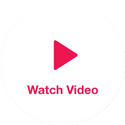
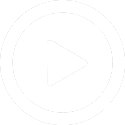
e2a

diff --git a/app/webroot/sass/style.scss b/app/webroot/sass/style.scss
@@ -42,7 +42,7 @@ section { float:left; width:100%;}
 
 
 .container {
-  max-width: 1200px !important;
+  max-width: 1250px !important;
 }
 
 header {
@@ -58,7 +58,7 @@ header {
   }
   .nav-item {
     .nav-link {
-      font-size: 16px;
+      font-size: 18px;
       font-weight: 700;
       color: #575757;
       text-transform: uppercase;
@@ -213,9 +213,9 @@ filter: progid:DXImageTransform.Microsoft.gradient( startColorstr='#cc0139', end
 
 .design-change { padding:80px 0; text-align:center; color:#fff;
 background: #1a81c4; /* Old browsers */
-background: -moz-linear-gradient(top, #1a81c4 0%, #0bcdf8 3%, #ffffff 100%); /* FF3.6-15 */
-background: -webkit-linear-gradient(top, #1a81c4 0%,#0bcdf8 3%,#ffffff 100%); /* Chrome10-25,Safari5.1-6 */
-background: linear-gradient(to bottom, #1a81c4 0%,#0bcdf8 3%,#ffffff 100%); /* W3C, IE10+, FF16+, Chrome26+, Opera12+, Safari7+ */
+background: -moz-linear-gradient(top, #1a81c4 0%, #22bfe2 44%, #ffffff 100%); /* FF3.6-15 */
+background: -webkit-linear-gradient(top, #1a81c4 0%,#22bfe2 44%,#ffffff 100%); /* Chrome10-25,Safari5.1-6 */
+background: linear-gradient(to bottom, #1a81c4 0%, #22bfe2 44%, #ffffff 100%); /* W3C, IE10+, FF16+, Chrome26+, Opera12+, Safari7+ */
 filter: progid:DXImageTransform.Microsoft.gradient( startColorstr='#1a81c4', endColorstr='#ffffff',GradientType=0 ); /* IE6-9 */	
 }
 .design-change {
@@ -324,7 +324,7 @@ filter: progid:DXImageTransform.Microsoft.gradient( startColorstr='#1a81c4', end
     color: #333;
   }
   p {
-    font-size: 15px !important;
+    font-size: 18px !important;
     font-weight: 100;
     line-height: 25px !important;
   }
@@ -338,13 +338,13 @@ filter: progid:DXImageTransform.Microsoft.gradient( startColorstr='#1a81c4', end
 
 .imagine-block {
   h4, h5 {
-    color: #F8DC00;
+    color: #b7a40e;
   }
 }
 
 .do-block {
   h4, h5 {
-    color: #9ECD51;
+    color: #6ca213;
   }
 }
 
@@ -373,7 +373,7 @@ filter: progid:DXImageTransform.Microsoft.gradient( startColorstr='#1a81c4', end
 
 .get-started { padding:80px 0; text-align:center;
 /* Permalink - use to edit and share this gradient: http://colorzilla.com/gradient-editor/#8ccc1e+0,c0e825+35,b3ef32+61,a1db42+100 */
-background: #8ccc1e; /* Old browsers */
+background: #679020; /* Old browsers */
 /*background: -moz-linear-gradient(top, #8ccc1e 0%, #c0e825 55%, #b3ef32 61%, #a1db42 100%);
 background: -webkit-linear-gradient(top, #8ccc1e 0%,#c0e825 75%,#b3ef32 61%,#a1db42 100%); 
 background: linear-gradient(to bottom, #8ccc1e 0%,#c0e825 75%,#b3ef32 61%,#a1db42 100%); */
@@ -381,7 +381,7 @@ filter: progid:DXImageTransform.Microsoft.gradient( startColorstr='#8ccc1e', end
 .get-started-head {
   float: left;
   width: 100%;
-  margin: 0 0 60px 0;
+  margin: 0 0 20px 0;
   h2 {
     float: left;
     width: 100%;
@@ -395,7 +395,7 @@ filter: progid:DXImageTransform.Microsoft.gradient( startColorstr='#8ccc1e', end
     width: 100%;
     font-size: 21px;
     font-weight: 400;
-    line-height: 40px;
+    line-height: 35px;
     color: #fff;
     padding: 0 5%;
     &.left {
@@ -419,14 +419,15 @@ filter: progid:DXImageTransform.Microsoft.gradient( startColorstr='#8ccc1e', end
     position: relative;
     float: left; 
     color: #FFF;
-    &:first-child {
-      margin-right: 80px;
+    margin-right: 40px;
+    img {
+      padding-bottom: 10px;
     }
     .watch-video-btn {
       img {
         width: 100px;
         height: 100px;
-        margin-top: -20px;
+        margin-top: -30px;
       }
     }
   }
@@ -1343,7 +1344,7 @@ filter: progid:DXImageTransform.Microsoft.gradient( startColorstr='#cc0139', end
     height: 25px;
   }
   &.inside {
-    height: 350px;
+    height: 270px;
   }
   &.just-title {
     height: 200px;
@@ -1429,7 +1430,7 @@ filter: progid:DXImageTransform.Microsoft.gradient( startColorstr='#cc0139', end
     font-size: 21px;
     font-weight: 400;
     color: #575757;
-    line-height: 40px;
+    line-height: 30px;
     margin: 0 0 30px 0;
     &.big {
       font-size: 25px;
@@ -1562,12 +1563,12 @@ filter: progid:DXImageTransform.Microsoft.gradient( startColorstr='#cc0139', end
     font-size: 21px;
     font-weight: 400;
     color: #fff;
-    margin: 0 0 30px 0;
+    margin: 0 0 50px 0;
     padding: 0 10%;
+    line-height: 30px;
   }
   a {
-    margin: auto;
-    display: table;
+    margin-left: 25px;
     font-size: 18px;
     font-weight: 700;
     padding: 12px 40px;
@@ -1654,14 +1655,14 @@ filter: progid:DXImageTransform.Microsoft.gradient( startColorstr='#cc0139', end
     width: 100%;
     font-size: 14px;
     font-weight: 400;
-    color: #ccc;
+    color: #666;
   }
   span {
     float: left;
     width: 100%;
     font-size: 14px;
     font-weight: 400;
-    color: #0BCDF8;
+    color: #666;
   }
 }
 

diff --git a/app/webroot/css/style.css b/app/webroot/css/style.css
@@ -87,7 +87,7 @@ section {
   width: 100%; }
 
 .container {
-  max-width: 1200px !important; }
+  max-width: 1250px !important; }
 
 header {
   float: left;
@@ -99,7 +99,7 @@ header {
   .navbar .navbar-brand {
     width: 160px; }
   .navbar .nav-item .nav-link {
-    font-size: 16px;
+    font-size: 18px;
     font-weight: 700;
     color: #575757;
     text-transform: uppercase;
@@ -240,11 +240,11 @@ header {
   color: #fff;
   background: #1a81c4;
   /* Old browsers */
-  background: -moz-linear-gradient(top, #1a81c4 0%, #0bcdf8 3%, #ffffff 100%);
+  background: -moz-linear-gradient(top, #1a81c4 0%, #22bfe2 44%, #ffffff 100%);
   /* FF3.6-15 */
-  background: -webkit-linear-gradient(top, #1a81c4 0%, #0bcdf8 3%, #ffffff 100%);
+  background: -webkit-linear-gradient(top, #1a81c4 0%, #22bfe2 44%, #ffffff 100%);
   /* Chrome10-25,Safari5.1-6 */
-  background: linear-gradient(to bottom, #1a81c4 0%, #0bcdf8 3%, #ffffff 100%);
+  background: linear-gradient(to bottom, #1a81c4 0%, #22bfe2 44%, #ffffff 100%);
   /* W3C, IE10+, FF16+, Chrome26+, Opera12+, Safari7+ */
   filter: progid:DXImageTransform.Microsoft.gradient( startColorstr='#1a81c4', endColorstr='#ffffff',GradientType=0 );
   /* IE6-9 */ }
@@ -337,7 +337,7 @@ header {
     font-weight: 400;
     color: #333; }
   .apply-block p {
-    font-size: 15px !important;
+    font-size: 18px !important;
     font-weight: 100;
     line-height: 25px !important; }
 
@@ -345,10 +345,10 @@ header {
   color: #EF3934; }
 
 .imagine-block h4, .imagine-block h5 {
-  color: #F8DC00; }
+  color: #b7a40e; }
 
 .do-block h4, .do-block h5 {
-  color: #9ECD51; }
+  color: #6ca213; }
 
 .share-block h4, .share-block h5 {
   color: #3A95D2; }
@@ -371,7 +371,7 @@ header {
   padding: 80px 0;
   text-align: center;
   /* Permalink - use to edit and share this gradient: http://colorzilla.com/gradient-editor/#8ccc1e+0,c0e825+35,b3ef32+61,a1db42+100 */
-  background: #8ccc1e;
+  background: #679020;
   /* Old browsers */
   /*background: -moz-linear-gradient(top, #8ccc1e 0%, #c0e825 55%, #b3ef32 61%, #a1db42 100%);
   background: -webkit-linear-gradient(top, #8ccc1e 0%,#c0e825 75%,#b3ef32 61%,#a1db42 100%); 
@@ -382,7 +382,7 @@ header {
 .get-started-head {
   float: left;
   width: 100%;
-  margin: 0 0 60px 0; }
+  margin: 0 0 20px 0; }
   .get-started-head h2 {
     float: left;
     width: 100%;
@@ -395,7 +395,7 @@ header {
     width: 100%;
     font-size: 21px;
     font-weight: 400;
-    line-height: 40px;
+    line-height: 35px;
     color: #fff;
     padding: 0 5%; }
     .get-started-head p.left {
@@ -414,13 +414,14 @@ header {
   .get-started-inner .video-box {
     position: relative;
     float: left;
-    color: #FFF; }
-    .get-started-inner .video-box:first-child {
-      margin-right: 80px; }
+    color: #FFF;
+    margin-right: 40px; }
+    .get-started-inner .video-box img {
+      padding-bottom: 10px; }
     .get-started-inner .video-box .watch-video-btn img {
       width: 100px;
       height: 100px;
-      margin-top: -20px; }
+      margin-top: -30px; }
 
 .pathway-block {
   float: left;
@@ -1215,7 +1216,7 @@ footer {
 .inner-hero.short {
   height: 25px; }
 .inner-hero.inside {
-  height: 350px; }
+  height: 270px; }
 .inner-hero.just-title {
   height: 200px; }
 .inner-hero img {
@@ -1287,7 +1288,7 @@ footer {
     font-size: 21px;
     font-weight: 400;
     color: #575757;
-    line-height: 40px;
+    line-height: 30px;
     margin: 0 0 30px 0; }
     .page-content p.big {
       font-size: 25px;
@@ -1396,11 +1397,11 @@ footer {
     font-size: 21px;
     font-weight: 400;
     color: #fff;
-    margin: 0 0 30px 0;
-    padding: 0 10%; }
+    margin: 0 0 50px 0;
+    padding: 0 10%;
+    line-height: 30px; }
   .interested-dfc a {
-    margin: auto;
-    display: table;
+    margin-left: 25px;
     font-size: 18px;
     font-weight: 700;
     padding: 12px 40px;
@@ -1474,13 +1475,13 @@ footer {
     width: 100%;
     font-size: 14px;
     font-weight: 400;
-    color: #ccc; }
+    color: #666; }
   .story-det span {
     float: left;
     width: 100%;
     font-size: 14px;
     font-weight: 400;
-    color: #0BCDF8; }
+    color: #666; }
 
 /*Design Sprints*/
 .design-sprints h3 {
